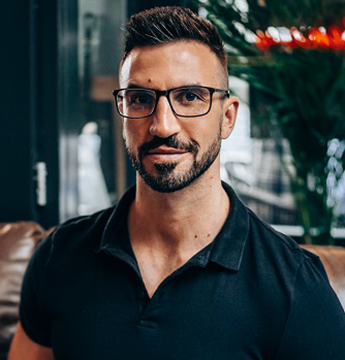
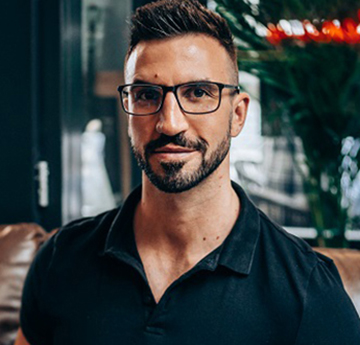
Kep, mret

diff --git a/cegunkrol.html b/cegunkrol.html
@@ -119,7 +119,7 @@
               <!-- Row -->
               <div class="row">
                 <div class="col-md-12">
-                  <img style="height: 340px;" src="kepek/team/bartabertalan.jpg" alt="wrapkit"
+                  <img src="kepek/team/bartabertalan.jpg" alt="wrapkit"
                     class="img-fluid rounded-circle" />
                 </div>
                 <div class="col-md-12 text-center">
